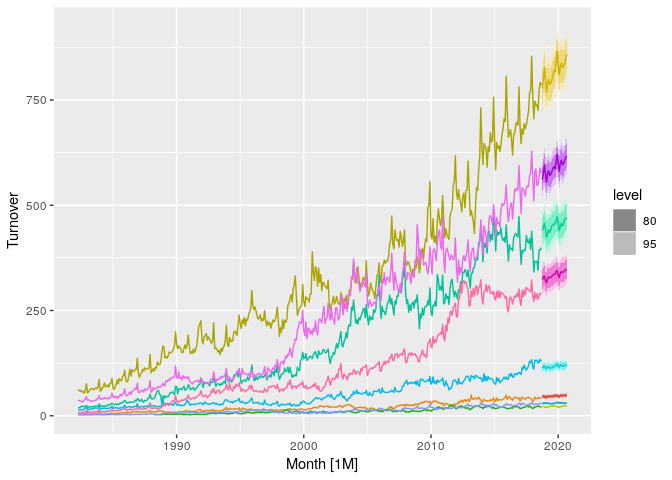
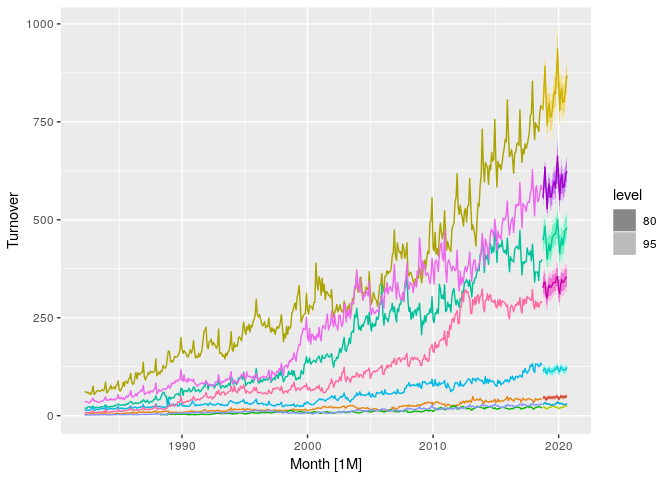
Fixed README seasonality to be multiplicative

diff --git a/README.md b/README.md
@@ -56,7 +56,7 @@ library(fable.prophet)
 #>     simulate
 fit <- cafe %>% 
   model(
-    prophet = prophet(Turnover ~ season("year", 4))
+    prophet = prophet(Turnover ~ season("year", 4, type = "multiplicative"))
   )
 ```
 
@@ -89,16 +89,16 @@ fc <- fit %>%
     #> # Key:     State, Industry, .model [8]
     #>    State         Industry           .model     Month Turnover .distribution
     #>    <chr>         <chr>              <chr>      <mth>    <dbl> <dist>       
-    #>  1 Australian C… Cafes, restaurant… proph…  2018 Oct     45.2 sim(dbl[1000…
-    #>  2 Australian C… Cafes, restaurant… proph…  2018 Nov     46.4 sim(dbl[1000…
-    #>  3 Australian C… Cafes, restaurant… proph…  2018 Dec     46.2 sim(dbl[1000…
-    #>  4 Australian C… Cafes, restaurant… proph…  2019 Jan     43.4 sim(dbl[1000…
-    #>  5 Australian C… Cafes, restaurant… proph…  2019 Feb     44.1 sim(dbl[1000…
-    #>  6 Australian C… Cafes, restaurant… proph…  2019 Mar     46.4 sim(dbl[1000…
-    #>  7 Australian C… Cafes, restaurant… proph…  2019 Apr     46.1 sim(dbl[1000…
-    #>  8 Australian C… Cafes, restaurant… proph…  2019 May     45.7 sim(dbl[1000…
-    #>  9 Australian C… Cafes, restaurant… proph…  2019 Jun     46.3 sim(dbl[1000…
-    #> 10 Australian C… Cafes, restaurant… proph…  2019 Jul     46.0 sim(dbl[1000…
+    #>  1 Australian C… Cafes, restaurant… proph…  2018 Oct     45.0 sim(dbl[1000…
+    #>  2 Australian C… Cafes, restaurant… proph…  2018 Nov     47.6 sim(dbl[1000…
+    #>  3 Australian C… Cafes, restaurant… proph…  2018 Dec     46.6 sim(dbl[1000…
+    #>  4 Australian C… Cafes, restaurant… proph…  2019 Jan     40.5 sim(dbl[1000…
+    #>  5 Australian C… Cafes, restaurant… proph…  2019 Feb     42.9 sim(dbl[1000…
+    #>  6 Australian C… Cafes, restaurant… proph…  2019 Mar     48.0 sim(dbl[1000…
+    #>  7 Australian C… Cafes, restaurant… proph…  2019 Apr     46.4 sim(dbl[1000…
+    #>  8 Australian C… Cafes, restaurant… proph…  2019 May     45.2 sim(dbl[1000…
+    #>  9 Australian C… Cafes, restaurant… proph…  2019 Jun     46.5 sim(dbl[1000…
+    #> 10 Australian C… Cafes, restaurant… proph…  2019 Jul     45.6 sim(dbl[1000…
     #> # ... with 182 more rows
 
 <img src="man/figures/README-fable-1.png" width="100%" />
